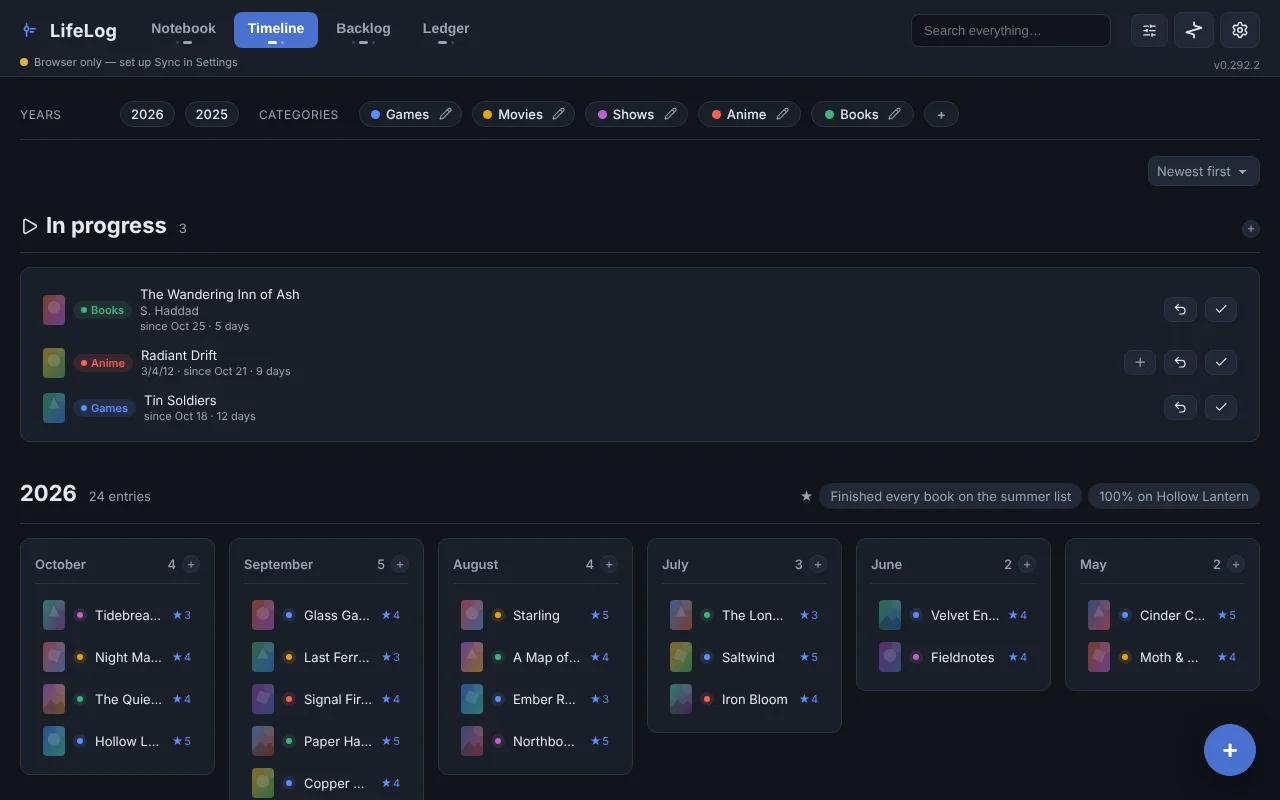
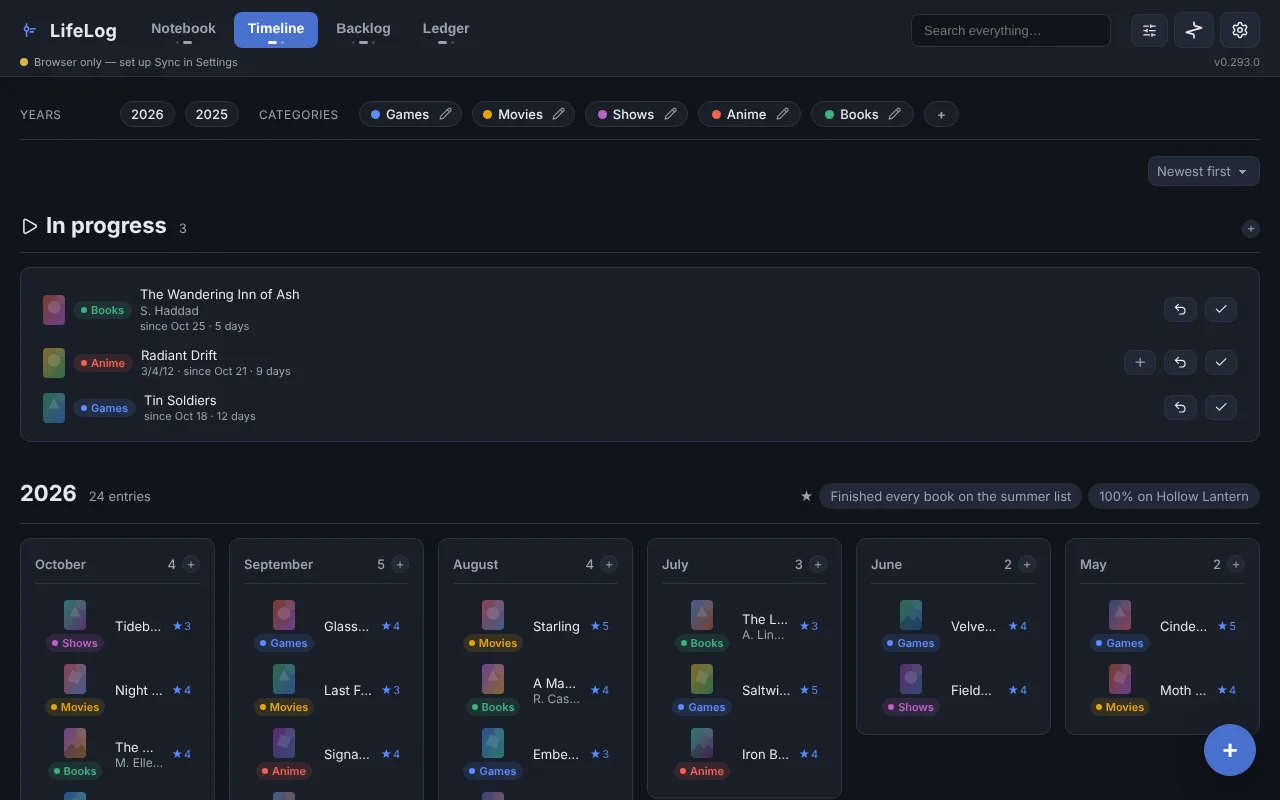
0.293.0: Timeline category under the cover, author under the title
Claude-Session: https://claude.ai/code/session_01CFeKrikaK2HqSZrqcPUmZr

diff --git a/index.html b/index.html
@@ -5,7 +5,7 @@
   <meta http-equiv="Content-Security-Policy" content="default-src 'self'; script-src 'self'; style-src 'self'; img-src 'self' data: blob: https:; connect-src 'self' https: http://localhost:* http://127.0.0.1:*; font-src 'self'; object-src 'none'; frame-src 'none'; base-uri 'self'; form-action 'self'; manifest-src 'self'; worker-src 'self'" />
   <meta name="viewport" content="width=device-width, initial-scale=1.0" />
   <title>LifeLog</title>
-  <link rel="stylesheet" href="src/styles.css?v=0.292.4" />
+  <link rel="stylesheet" href="src/styles.css?v=0.293.0" />
   <link rel="manifest" href="manifest.json" />
   <meta name="theme-color" content="#11141a" />
   <link rel="icon" href="icon.svg" type="image/svg+xml" />
@@ -2310,38 +2310,38 @@
     </div>
   </div>
 
-  <script defer src="src/errlog.js?v=0.292.4"></script>
-  <script defer src="src/headless.js?v=0.292.4"></script>
-  <script defer src="src/platform.js?v=0.292.4"></script>
-  <script defer src="src/icons.js?v=0.292.4"></script>
-  <script defer src="src/jobs.js?v=0.292.4"></script>
-  <script defer src="src/reconcile.js?v=0.292.4"></script>
-  <script defer src="src/qr.js?v=0.292.4"></script>
-  <script defer src="src/media.js?v=0.292.4"></script>
-  <script defer src="src/merge.js?v=0.292.4"></script>
-  <script defer src="src/storage.js?v=0.292.4"></script>
-  <script defer src="src/finance.js?v=0.292.4"></script>
-  <script defer src="src/settings.js?v=0.292.4"></script>
-  <script defer src="src/wheel.js?v=0.292.4"></script>
-  <script defer src="src/backlog.js?v=0.292.4"></script>
-  <script defer src="src/journal.js?v=0.292.4"></script>
-  <script defer src="src/markdown.js?v=0.292.4"></script>
-  <script defer src="src/notes.js?v=0.292.4"></script>
-  <script defer src="src/docimport.js?v=0.292.4"></script>
-  <script defer src="src/io.js?v=0.292.4"></script>
-  <script defer src="src/sync.js?v=0.292.4"></script>
-  <script defer src="src/habits.js?v=0.292.4"></script>
-  <script defer src="src/vendor/rough.js?v=0.292.4"></script>
-  <script defer src="src/boards.js?v=0.292.4"></script>
-  <script defer src="src/travel.js?v=0.292.4"></script>
-  <script defer src="src/recap.js?v=0.292.4"></script>
-  <script defer src="src/reminders.js?v=0.292.4"></script>
-  <script defer src="src/alerts.js?v=0.292.4"></script>
-  <script defer src="src/widgets.js?v=0.292.4"></script>
-  <script defer src="src/share.js?v=0.292.4"></script>
-  <script defer src="src/search.js?v=0.292.4"></script>
-  <script defer src="src/letterboxd.js?v=0.292.4"></script>
-  <script defer src="src/payments.js?v=0.292.4"></script>
-  <script defer src="src/app.js?v=0.292.4"></script>
+  <script defer src="src/errlog.js?v=0.293.0"></script>
+  <script defer src="src/headless.js?v=0.293.0"></script>
+  <script defer src="src/platform.js?v=0.293.0"></script>
+  <script defer src="src/icons.js?v=0.293.0"></script>
+  <script defer src="src/jobs.js?v=0.293.0"></script>
+  <script defer src="src/reconcile.js?v=0.293.0"></script>
+  <script defer src="src/qr.js?v=0.293.0"></script>
+  <script defer src="src/media.js?v=0.293.0"></script>
+  <script defer src="src/merge.js?v=0.293.0"></script>
+  <script defer src="src/storage.js?v=0.293.0"></script>
+  <script defer src="src/finance.js?v=0.293.0"></script>
+  <script defer src="src/settings.js?v=0.293.0"></script>
+  <script defer src="src/wheel.js?v=0.293.0"></script>
+  <script defer src="src/backlog.js?v=0.293.0"></script>
+  <script defer src="src/journal.js?v=0.293.0"></script>
+  <script defer src="src/markdown.js?v=0.293.0"></script>
+  <script defer src="src/notes.js?v=0.293.0"></script>
+  <script defer src="src/docimport.js?v=0.293.0"></script>
+  <script defer src="src/io.js?v=0.293.0"></script>
+  <script defer src="src/sync.js?v=0.293.0"></script>
+  <script defer src="src/habits.js?v=0.293.0"></script>
+  <script defer src="src/vendor/rough.js?v=0.293.0"></script>
+  <script defer src="src/boards.js?v=0.293.0"></script>
+  <script defer src="src/travel.js?v=0.293.0"></script>
+  <script defer src="src/recap.js?v=0.293.0"></script>
+  <script defer src="src/reminders.js?v=0.293.0"></script>
+  <script defer src="src/alerts.js?v=0.293.0"></script>
+  <script defer src="src/widgets.js?v=0.293.0"></script>
+  <script defer src="src/share.js?v=0.293.0"></script>
+  <script defer src="src/search.js?v=0.293.0"></script>
+  <script defer src="src/letterboxd.js?v=0.293.0"></script>
+  <script defer src="src/payments.js?v=0.293.0"></script>
+  <script defer src="src/app.js?v=0.293.0"></script>
 </body>
 </html>

diff --git a/src/styles.css b/src/styles.css
@@ -1288,11 +1288,13 @@ select:focus { outline: none; border-color: var(--accent); }
    cover, category chip and five stars all the room and the title a letter.
    There the chip draws as its dot (the name is its tooltip), the stars as
    "★4", and the span chip and a book's author step aside (the sheet has
-   both), so the title keeps the row. */
+   both), so the title keeps the row. With covers on (0.293.0) the chip sits
+   under the cover with its name and the author under the title, so neither
+   needs to give way. */
 .month-grid > .month-card { container-type: inline-size; }
 @container (max-width: 280px) {
   .month-card .entry:not(.finance-entry) > .entry-cat { font-size: 0; gap: 0; padding: var(--space-4); }
-  .month-card .entry:not(.finance-entry) .erating-full, .month-card .entry:not(.finance-entry) .espan, .month-card .entry:not(.finance-entry) .eauthor { display: none; }
+  .month-card .entry:not(.finance-entry) .erating-full, .month-card .entry:not(.finance-entry) .espan, .month-card .entry:not(.finance-entry) .etitle:not(.author-below) .eauthor { display: none; }
   .month-card .entry:not(.finance-entry) .erating-short { display: inline; }
 }
 /* Multi-month span chip (e.g. "Jun–Aug") — a quiet, faint pill so it reads as
@@ -1341,6 +1343,8 @@ html.force-mobile .progress-since .progress-airing::before { content: none; }
 .etitle.has-author { display: flex; gap: var(--space-4); min-width: 0; }
 .etitle.has-author .etitle-text { flex: 0 1 auto; min-width: 0; overflow: hidden; text-overflow: ellipsis; }
 .etitle.has-author .eauthor { flex: 0 10000 auto; min-width: 4em; overflow: hidden; text-overflow: ellipsis; color: var(--text-dim); }
+.etitle.author-below { flex-direction: column; gap: 0; }
+.etitle.author-below .eauthor { flex: none; min-width: 0; white-space: nowrap; font-size: var(--fs-xs); }
 .progress-row .btn-sm { flex: 0 0 auto; }
 /* The episode count (0.292.0): + on the In progress row, quieter than ✓
    like ▶ is; − count + in the item's sheet. */
@@ -1369,6 +1373,8 @@ html.force-mobile .progress-since .progress-airing::before { content: none; }
 }
 .entry .entry-cat .dot { width: 6px; height: 6px; border-radius: 50%; flex-shrink: 0; }
 .entry .etn-cover { object-fit: cover; border-radius: var(--r-xs); flex-shrink: 0; }
+/* Cover with the category chip under it (0.293.0). A fixed width keeps
+   every title in a card starting at the same x, whatever the chip says. */
 .entry .etn-side { display: flex; flex-direction: column; align-items: center; gap: var(--space-4); flex-shrink: 0; width: 64px; }
 .entry .etn-side .entry-cat { max-width: 100%; padding: var(--space-2) var(--space-6); }
 /* Cover art on its way in (coverEl in app.js) fades up when it lands; its

diff --git a/src/journal.js b/src/journal.js
@@ -320,8 +320,9 @@
     const row = el("div", "entry");
     row.dataset.id = e.id;
     if (state.bulk.active) row.appendChild(bulkCheckbox(e));
-    // The category chip sits under the cover, so the title gets the row's
-    // width; with covers off it stays beside the title.
+    // The category chip sits under the cover and a book's author under the
+    // title (0.293.0), so the title gets the row's width. With covers off
+    // the row is one line again and both stay beside the title.
     let side = row;
     if (state.visual.timelineCoverSize !== "none") {
       const sizeClass = state.visual.timelineCoverSize === "big" ? "cover-lg" : "cover-sm";
@@ -342,7 +343,7 @@
     chip.appendChild(document.createTextNode(e.category));
     chip.title = e.category;
     side.appendChild(chip);
-    row.appendChild(titleWithAuthor("etitle", e));
+    row.appendChild(titleWithAuthor("etitle", e, side !== row));
     const sp = spanLabel(e);
     if (sp) {
       const chip = el("span", "espan", sp);
@@ -1133,14 +1134,15 @@
   // A one-line row's title, "Title · Author". The author gives way first
   // when the row is narrow (styles.css, .has-author), so the title is cut
   // only once the name is gone.
-  function titleWithAuthor(cls, item) {
+  function titleWithAuthor(cls, item, below) {
     const author = authorOf(item);
     const t = el("span", cls);
     t.title = author ? item.title + " · " + author : item.title;
     if (!author) { t.textContent = item.title; return t; }
     t.classList.add("has-author");
+    if (below) t.classList.add("author-below");
     t.appendChild(el("span", "etitle-text", item.title));
-    t.appendChild(el("span", "eauthor", "· " + author));
+    t.appendChild(el("span", "eauthor", below ? author : "· " + author));
     return t;
   }
 

diff --git a/src/app.js b/src/app.js
@@ -164,7 +164,7 @@
   // hideWidgets keeps notes and to-dos out of the widgets while locked.
   const DEFAULT_PRIVACY = { enabled: false, pinHash: null, pinSalt: null, pinKdf: null, credentialId: null, graceMinutes: 0, lastUnlockAt: 0,
     relockMinutes: 5, fails: 0, lockedUntil: 0, bioOnOpen: true, privacyScreen: false, hideWidgets: false };
-  const APP_VERSION = "0.292.4"; // bump with each shipped change so it's visible in Settings
+  const APP_VERSION = "0.293.0"; // bump with each shipped change so it's visible in Settings
 
   const CATEGORY_PALETTE = ["#e23b3b", "#e2723b", "#e2b23b", "#9fe23b", "#3be25a", "#3bb2e2", "#5b8cff", "#723be2", "#b23be2", "#e23b72", "#7a8a99"];
 

diff --git a/sw.js b/sw.js
@@ -12,7 +12,7 @@
 // touched — intercepting those and falling back to index.html on failure
 // previously turned a real network/CORS error into a fake 200 OK full of HTML,
 // masking the actual failure from the app's own error handling.
-const CACHE = "lifelog-v248";
+const CACHE = "lifelog-v249";
 // Note: lifelog.json is intentionally NOT precached — it isn't deployed (your
 // data is private). The app fetches it at runtime with a graceful fallback.
 const ASSETS = [

diff --git a/NOTES.md b/NOTES.md
@@ -16,6 +16,23 @@ what was decided against and why.
 
 ---
 
+- **Timeline category under the cover, author under the title (0.293.0).**
+  Daniel asked for the chip under the cover so rows take less width, and
+  then the author on its own line. Measured before building: on the
+  default narrow desktop card (180px) 0.291.1 had already shrunk the chip
+  to a dot, so the cover + dot took 52px (small covers) / 78px (big)
+  before the title; the stacked column is a fixed 64px (fits "Movies" at
+  fs-2xs; a fixed width keeps every title in a card starting at the same
+  x). So with small covers on narrow cards the title column is ~12px
+  *narrower* than in 0.291.1, roughly even with big covers, and wider on
+  phones and wide cards. Daniel saw those numbers and the shots, with
+  gating it by card width offered, and said he liked it; the gain is the category's name back
+  and the author no longer competing with the title. Only Timeline month
+  rows: In progress rows and Backlog rows are unchanged. With covers set
+  to None there is no column to stack under, so the row stays one line
+  (chip and "· Author" beside the title, the 0.291.1 narrow rules apply).
+  The narrow-card rules now skip the stacked chip (`> .entry-cat`) and the
+  stacked author (`.author-below`).
 - **lifelog_search matches words, filters, and points elsewhere for reviews (0.292.4).**
   In a Telemachus chat that checked categories, the AI ran
   lifelog_search 76 times (up to 8 a round) guessing words, because the

diff --git a/README.md b/README.md
@@ -76,8 +76,9 @@ six months as bars). Reminders on Android and iPhone.
 
 What you finished, by year and month, with each year's accomplishments.
 An entry has a rating, notes, cover art, genres, a length and when you
-started it. What you're in the middle of sits in the In progress card at
-the top; ✓ there logs it with the months it took.
+started it. With cover art on, the category sits under the cover and a
+book's author under the title. What you're in the middle of sits in the
+In progress card at the top; ✓ there logs it with the months it took.
 
 <table><tr>
 <td><img src="docs/screenshots/timeline-desktop.webp" alt="The Timeline on a computer" width="620"></td>

diff --git a/CHANGELOG.md b/CHANGELOG.md
@@ -4,6 +4,15 @@ All notable changes to LifeLog are documented here. The version number
 always matches `APP_VERSION` in `src/app.js`, shown as "LifeLog vX.Y.Z" at
 the bottom of Settings.
 
+## [0.293.0] - 2026-10-30
+
+### Changed
+- **Timeline rows give the title more room.** With cover art on, an
+  entry's category now sits under its cover with its full name (narrow
+  month cards used to shrink it to a dot), and a book's author sits on
+  its own line under the title instead of beside it. Rows are a little
+  taller. With cover art set to None, the row stays one line as before.
+
 ## [0.292.4] - 2026-10-30
 
 ### Changed

diff --git a/DONE.md b/DONE.md
@@ -52,6 +52,7 @@ Every release that adds a feature adds its line here in the same commit.
 - Newest or oldest first, and optional month summaries (0.157.0, 0.143.0)
 - Covers layout under View: each month's entries as cover art, with the rating (0.290.0)
 - Calendar layout under View: a month of days with covers, the picked day's entries, and No day set (0.291.0)
+- With covers on, the category sits under the cover and a book's author under the title (0.293.0)
 
 ## Timeline (Stats) and Recap
 
